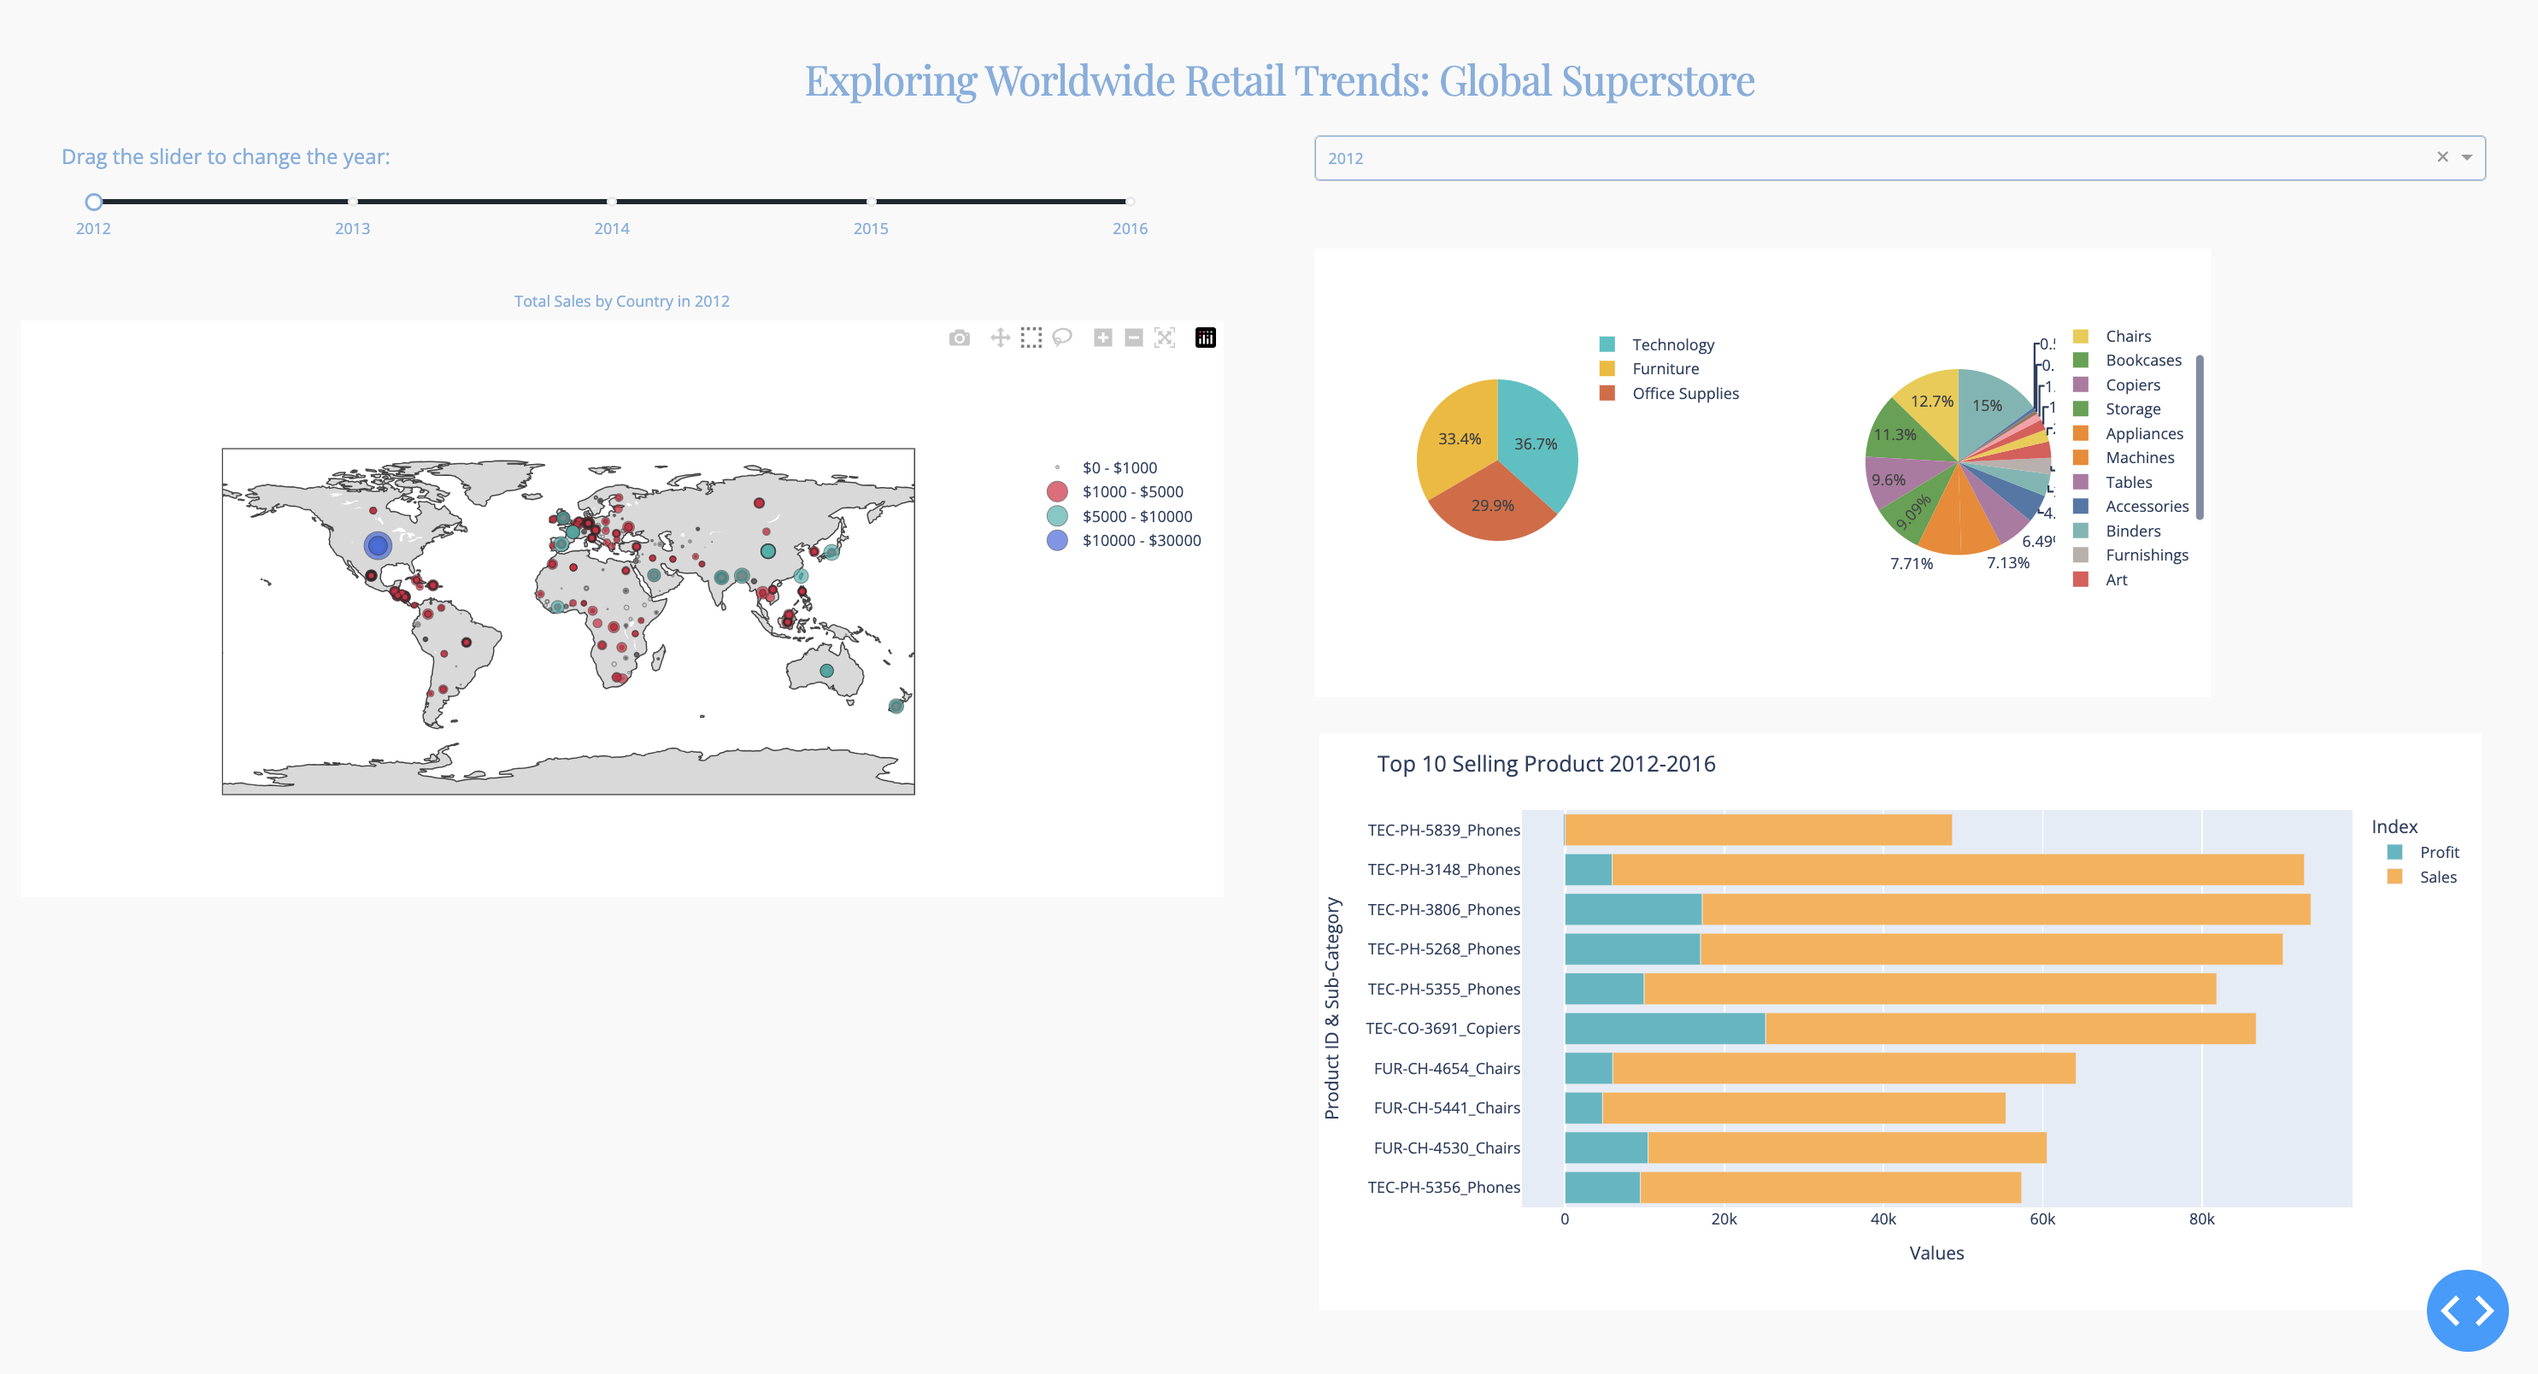
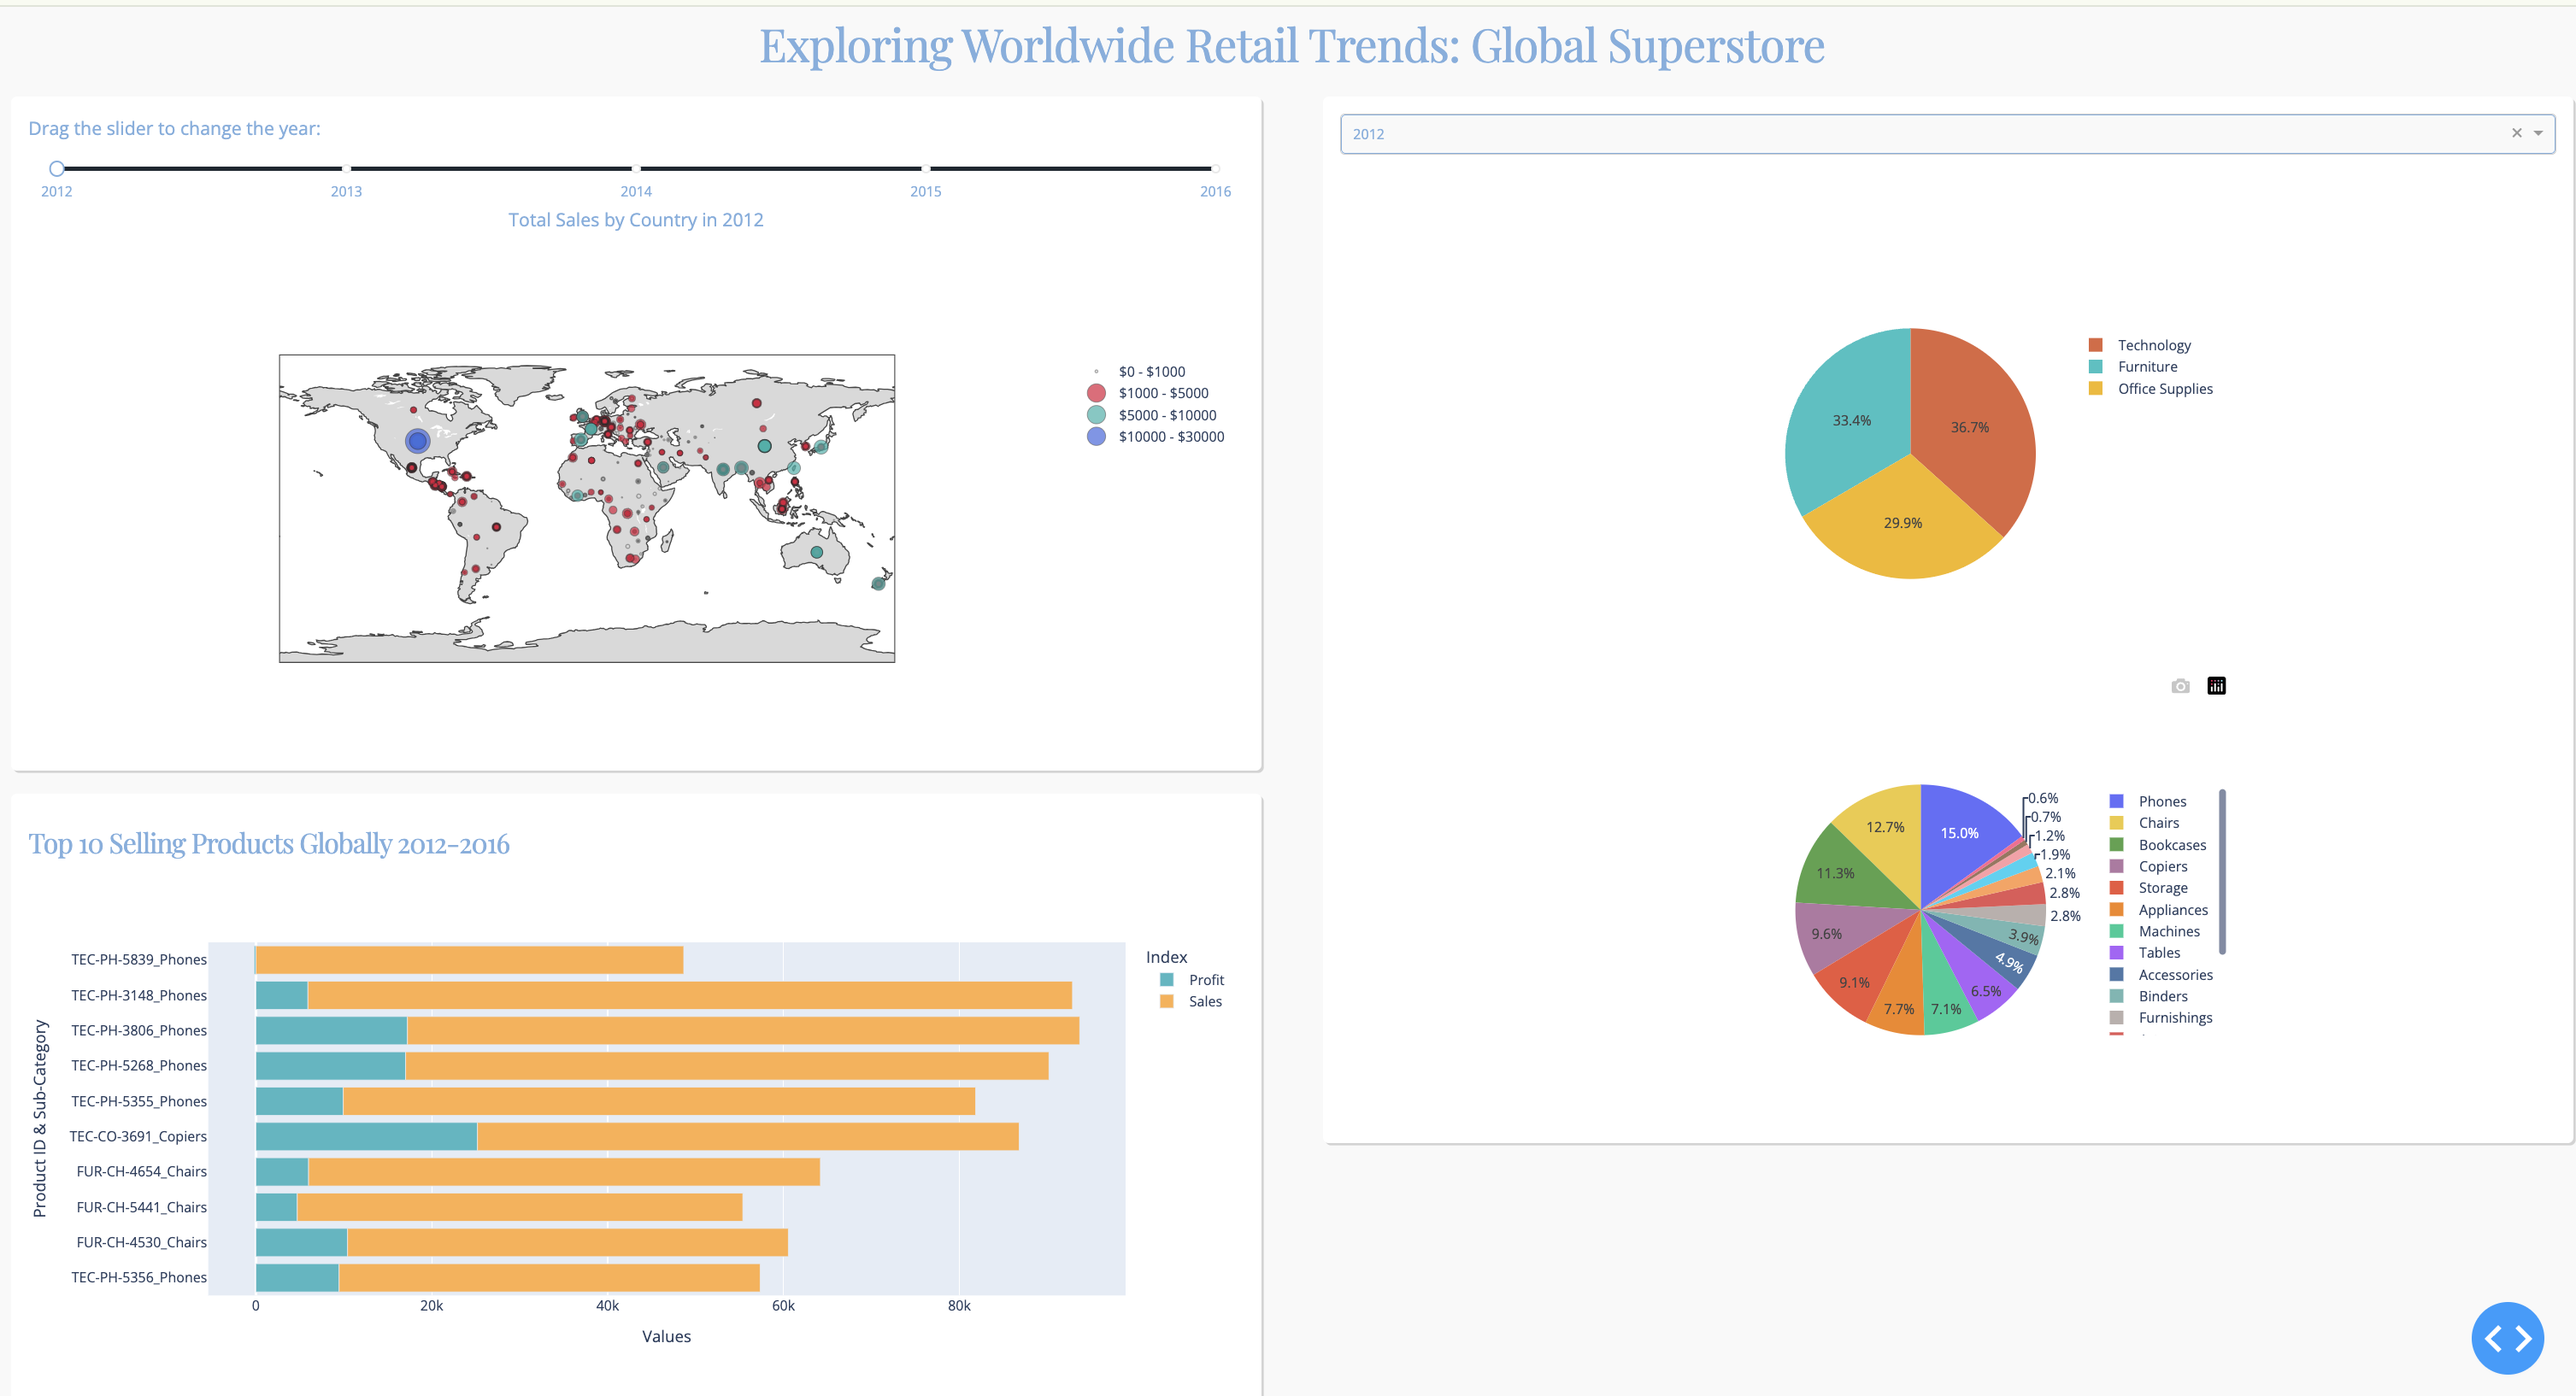
new edits

diff --git a/assets/opioid.css b/assets/opioid.css
@@ -276,6 +276,7 @@ h2 {
 }
 
 h3 {
+    font-family: "Playfair Display", sans-serif;
     font-size: 3.0rem;
     line-height: 1.3;
     letter-spacing: -.1rem;
@@ -285,7 +286,7 @@ h3 {
 
 h4 {
     font-family: "Playfair Display", sans-serif;
-    font-size: 4rem;
+    font-size: 5rem;
     line-height: 1.35;
     letter-spacing: -.08rem;
     margin-bottom: 1.2rem;
@@ -662,10 +663,10 @@ hr {
 
 /* Heatmap
 –––––––––––––––––––––––––––––––––––––––––––––––––– */
-#heatmap-container {
+/* #heatmap-container {
     margin: 2.5rem 0 0 0;
     background-color: #f9f9f9;
-}
+} */
 
 #heatmap-title {
     margin: 0;
@@ -677,14 +678,14 @@ hr {
     flex-grow: 1;
 }
 
-@media (min-width: 1251px) {
+/* @media (min-width: 1251px) {
     #heatmap-container {
         flex-grow: 1;
         display: flex;
         flex-direction: column;
         justify-content: flex-start;
     }
-}
+} */
 
 @media (max-width: 550px) {
     #county-choropleth .annotation-text{
@@ -769,10 +770,6 @@ hr {
     #selected-data {
         height: 55rem;
     }
-
-    #new-container {
-        padding: 2.5rem; /* Adjust padding as needed */
-    }
 }
 
 @media (min-width: 1251px) {
@@ -798,10 +795,6 @@ hr {
     #selected-data {
         flex-grow: 1;
     }
-
-    #new-container {
-        padding: 1.5rem; /* Adjust padding as needed */
-    }
 }
 
 @media (max-width: 550px) {
@@ -815,10 +808,6 @@ hr {
 
     #selected-data .gtitle{
         font-size: 1.7rem !important;
-    }
-
-    #new-container {
-        padding: 1rem; /* Adjust padding as needed */
     }
 }
 
@@ -902,3 +891,12 @@ div, svg {
 ._dash-undo-redo {
     display: none;
 }
+
+.pretty_container {
+    border-radius: 5px;
+    background-color: white;
+    margin: 10px;
+    padding: 15px;
+    position: relative;
+    box-shadow: 2px 2px lightgrey;
+  }

diff --git a/app.py b/app.py
@@ -31,17 +31,25 @@ YEARS = tmp['Year'].unique().tolist()
 
 def plot_bar(df): 
     fig = px.bar(df, y = 'Product_ID_Cat', x= 'Values', color = 'Index', color_discrete_map={"Sales": "#ffaf4a", 'Profit': "#45b7c2"})
-    fig.update_layout(title = "Top 10 Selling Product 2012-2016", yaxis_title = "Product ID & Sub-Category")
+    fig.update_layout(yaxis_title = "Product ID & Sub-Category")
     return fig
 
 def plot_pie_cat(df): 
-    # tmp = df[df['Year'] == year].sort_values(by ='Category').reset_index(drop=True)
-    fig = px.pie(df, values = 'Sales', names = 'Category', color = 'Category', color_discrete_map={"Technology": "#2dc2c2", 'Furniture': "#f4b80f", "Office Supplies": "#de663e"}, width=350, height= 350)
+    fig = go.Figure(data = [go.Pie(
+        values = df["Sales"], 
+        labels = df['Category']
+    )])
+    fig.update_traces(marker = dict(colors = ["#2dc2c2", "#f4b80f", "#de663e"]), texttemplate = "%{percent:.1%}")
+    fig.update_layout(width=500, height=400)
     return fig
 
 def plot_pie_sub(df): 
-    # tmp = df[df['Year'] == year].sort_values(by ='Sub-Category').reset_index(drop=True)
-    fig = px.pie(df, values = 'Sales', names = 'Sub-Category', color = 'Sub-Category', color_discrete_sequence=px.colors.qualitative.T10 , width=350, height= 350)
+    fig = go.Figure(data = [go.Pie(
+            values = df['Sales'],
+            labels = df['Sub-Category'])],
+            )
+    fig.update_traces(marker = dict(colors = px.colors.qualitative.T10), texttemplate = "%{percent:.1%}")
+    fig.update_layout(width=500, height=400)
     return fig
 
 def plot_bb(df, limits): 
@@ -74,38 +82,50 @@ def plot_bb(df, limits):
 
 app = Dash(__name__)
 
-app.layout = html.Div(id ='root', children = [
-    html.Div(id = 'header', children=[
-        html.H4("Exploring Worldwide Retail Trends: Global Superstore", style={'text-align': 'center'})]),
-    html.Div(id = 'app-container', children = [ 
-            html.Div(id = 'left-column', 
-                children= [
-                html.Div(id="slider-container",
-                        children=[
-                        html.P(
-                            id="slider-text",
-                            children="Drag the slider to change the year:",
+app.layout = html.Div(
+    children = [
+        html.Div(children=[
+            html.H4("Exploring Worldwide Retail Trends: Global Superstore", style={'text-align': 'center'})
+        ]),
+        html.Div(
+            children = [
+                html.Div(id = 'left-column', 
+                    children= [
+                        html.Div(
+                            children = [
+                                html.P(
+                                        id="slider-text",
+                                        children="Drag the slider to change the year:",
+                                    ),
+                                dcc.Slider(id="slct_year",
+                                            min=min(YEARS),
+                                            max=max(YEARS),
+                                            value=min(YEARS),
+                                            step = 1,
+                                            marks={str(year): {"label": str(year), "style": {"color": "#7fafdf"}} for year in YEARS}),
+                                html.Div(children = [html.P("Order by Country in {0}".format(min(YEARS)), id = 'worldmap_name', style={'text-align': 'center', "font-size": "16px"}),
+                                    dcc.Graph(id = 'world_map', figure=go.Figure())])
+                            ], className= "pretty_container"
                         ),
-                        dcc.Slider(id="slct_year",
-                                min=min(YEARS),
-                                max=max(YEARS),
-                                value=min(YEARS),
-                                step = 1,
-                                marks={str(year): {"label": str(year), "style": {"color": "#7fafdf"}} for year in YEARS})]),
-                html.Div(id = 'heatmap-container', children = [html.P("Order by Country in {0}".format(min(YEARS)), id = 'worldmap_name', style={'text-align': 'center'}),
-                        dcc.Graph(id = 'world_map', figure=go.Figure())])
-            ]),
-            html.Div(id='right-column',  children = [
-                html.Div(id = 'new-container', style = {'display': 'flex', 'flex-direction': 'column'}, children= [
-                    dcc.Dropdown(id = 'chart-dropdown', options = [{'label': year, 'value': year} for year in sorted(YEARS)], value=YEARS[0]), 
-                    html.Div(style = {'display': 'flex'}, children = [
-                        dcc.Graph(id = 'pie-chart-cat', style={'flex': '1'}),
-                        dcc.Graph(id = 'pie-chart-sub',  style={'flex': '2'})])
-                ] ),
-                html.Div(id = 'graph-container',children = [dcc.Graph(figure = plot_bar(tmp3))])
-            ])
-    ])
-])
+                        html.Div(children = [
+                            html.H3("Top 10 Selling Products Globally 2012-2016"),
+                            dcc.Graph(figure = plot_bar(tmp3))], className="pretty_container"
+                        )
+                ]),
+                html.Div(id='right-column',  
+                    children = [
+                    html.Div(children= [
+                        dcc.Dropdown(id = 'chart-dropdown', options = [{'label': year, 'value': year} for year in sorted(YEARS)], value=YEARS[0]), 
+                        html.Div(children = [
+                            dcc.Graph(id = 'pie-chart-cat'),
+                            dcc.Graph(id = 'pie-chart-sub')
+                        ], style = {"display": "flex", "flex-direction": "column", "align-items": "center"})
+                    ], className="pretty_container")
+                ])
+            ], style = {"display": "grid", "grid-template-columns": "minmax(280px, 1fr) minmax(280px, 1fr)"}
+        )
+    ]
+)
 
 
 @app.callback(

diff --git a/README.md b/README.md
@@ -2,6 +2,11 @@
 
 This dashboard offers visual insights into customer demographics and geographic trends, providing a breakdown of sales for each category and top subcategories. By examining these visualizations, users can make data-driven decisions regarding customer demographics and prioritize strategies for best-selling items.
 
+### Installation & Run
+
+pip3 install dash==2.15.0 dash-core-components==2.0.0 dash-html-components==2.0.0 dash-table==5.0.0
+python3 app.py
+
 1. [Dataset](https://www.kaggle.com/datasets/endofnight17j03/global-superstore)
 
     The Global Superstore dataset provides a comprehensive overview of retail operations, encompassing sales data, product information, customer demographics, and geographic trends. It offers insights into product performance, customer preferences, and regional sales patterns, enabling retailers to optimize inventory management and tailor marketing strategies. By analyzing this dataset, retailers can make informed decisions to drive growth, enhance customer satisfaction, and improve operational efficiency in the competitive retail landscape.
